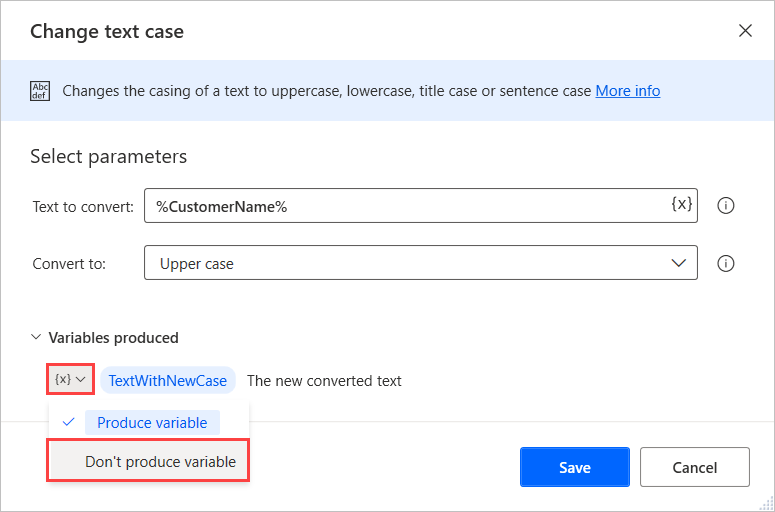
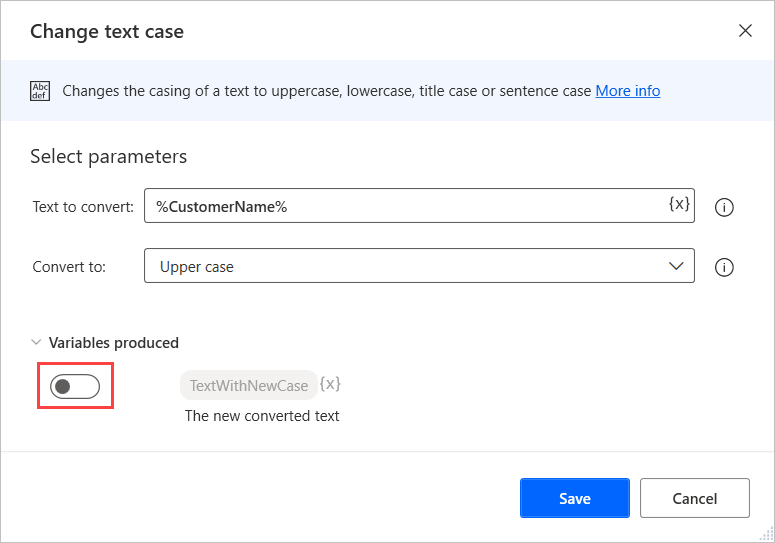
Updated screenshots and text in Handle variables in Power Automate Desktop

diff --git a/learn-bizapps-pr/flow/pad-variables/includes/2-create-edit-use-variables.md b/learn-bizapps-pr/flow/pad-variables/includes/2-create-edit-use-variables.md
@@ -10,7 +10,7 @@ Every time you add a new action in the workspace, the platform automatically pro
 
 ![Screenshot of the produced variable of the Change text case action.](..\media\produced-variables.png)
 
-In case you don't need a produced variable in your flow, you can select the icon on the left side of it and pick **Don't produce variable**. Disabling unused variables reduces the number of variables in the variables pane and makes management more efficient.
+In case you don't need a produced variable in your flow, you can select the slider on the left side of it to disable it. Disabling unused variables reduces the number of variables in the variables pane and makes management more efficient.
 
 ![Screenshot of the option to disable a produced variable.](..\media\disabled-produced-variables.png)
 
